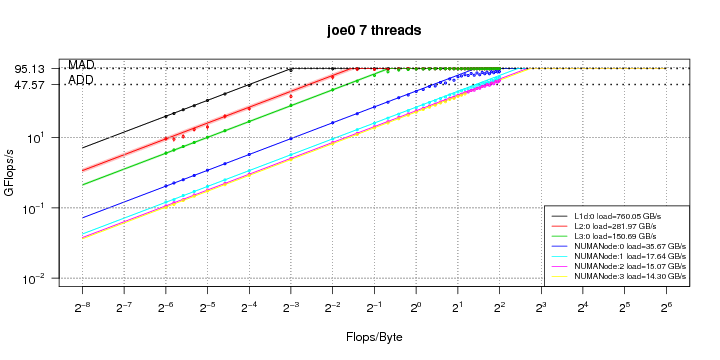
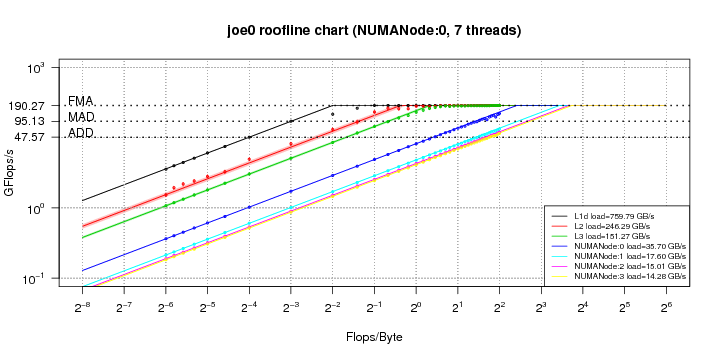
make clearer we use the  CARM and update main picture

diff --git a/README.md b/README.md
@@ -1,5 +1,5 @@
 #LARM (Locality Aware Roofline Model)
-### Benchmark and plot your system bounds on the roofline model.
+### Benchmark and plot your system bounds in the Cache Aware Roofline Model.
   The ever growing complexity of high performance computing systems imposes significant challenges to exploit as much as
   possible their computational and communication resources.
   Recently, the Cache-aware Roofline Model has has gained popularity due to its simplicity modeling multi-cores with complex memory
